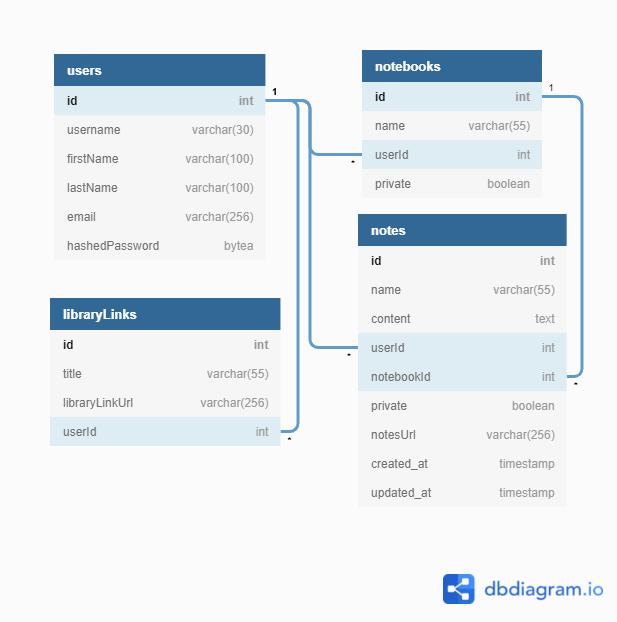
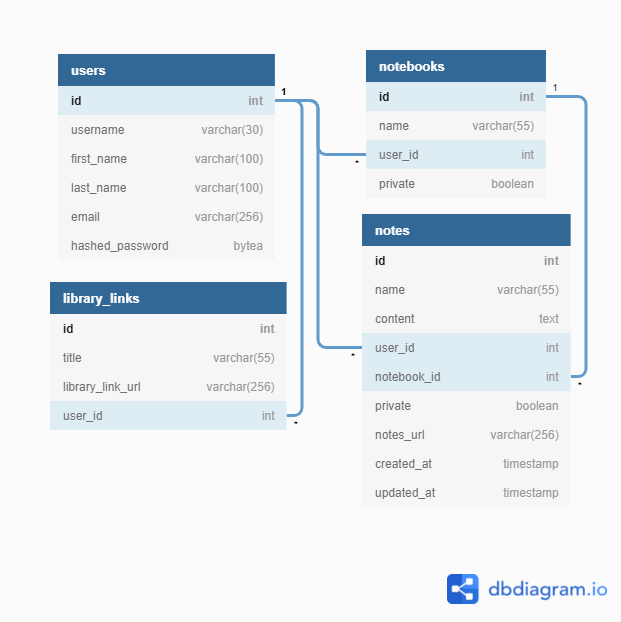
Finished the notebook and updated the user model. Working on the note model.

diff --git a/app/models/user.py b/app/models/user.py
@@ -2,32 +2,31 @@ from .db import db
 from werkzeug.security import generate_password_hash, check_password_hash
 from flask_login import UserMixin
 
+
 class User(db.Model, UserMixin):
-  __tablename__ = 'users'
+    __tablename__ = 'users'
 
-  id = db.Column(db.Integer, primary_key = True)
-  username = db.Column(db.String(40), nullable = False, unique = True)
-  email = db.Column(db.String(255), nullable = False, unique = True)
-  hashed_password = db.Column(db.String(255), nullable = False)
+    id = db.Column(db.Integer, primary_key=True)
+    username = db.Column(db.String(40), nullable=False, unique=True)
+    first_name = db.Column(db.String(100))
+    last_name = db.Column(db.String(100))
+    email = db.Column(db.String(255), nullable=False, unique=True)
+    hashed_password = db.Column(db.String(255), nullable=False)
 
+    @property
+    def password(self):
+        return self.hashed_password
 
-  @property
-  def password(self):
-    return self.hashed_password
+    @password.setter
+    def password(self, password):
+        self.hashed_password = generate_password_hash(password)
 
+    def check_password(self, password):
+        return check_password_hash(self.password, password)
 
-  @password.setter
-  def password(self, password):
-    self.hashed_password = generate_password_hash(password)
-
-
-  def check_password(self, password):
-    return check_password_hash(self.password, password)
-
-
-  def to_dict(self):
-    return {
-      "id": self.id,
-      "username": self.username,
-      "email": self.email
-    }
+    def to_dict(self):
+        return {
+          "id": self.id,
+          "username": self.username,
+          "email": self.email
+        }

diff --git a/app/models/note.py b/app/models/note.py
@@ -1,0 +1,16 @@
+import .db from db
+
+
+class Notes(db.Model):
+    __tablename__ = "notes"
+
+    id = db.Column(db.Integer, primary_key=True)
+    name = db.Column(db.String(55), nullable=False)
+    content = db.Column(db.Text, nullable=True)
+    user_id = db.Column(db.Integer, db.ForeignKey("users.id"), nullable=False)
+    notebook_id = db.Column(db.Integer, db.ForeignKey("notebooks.id"),
+                            nullable=True)
+    private = db.Column(db.Boolean, default=True)
+    notes_url = db.Column(db.String(255), nullable=True)
+    created_at = db.Column(db.TIMESTAMP, default=CURRENT_TIMESTAMP)
+    updated_at = db.Column(db.TIMESTAMP, default=CURRENT_TIMESTAMP)

diff --git a/app/config.py b/app/config.py
@@ -1,7 +1,8 @@
 import os
 
+
 class Config:
-  SECRET_KEY=os.environ.get('SECRET_KEY')
-  SQLALCHEMY_TRACK_MODIFICATIONS=False
-  SQLALCHEMY_DATABASE_URI=os.environ.get('DATABASE_URL')
-  SQLALCHEMY_ECHO=True
+    SECRET_KEY = os.environ.get('SECRET_KEY')
+    SQLALCHEMY_TRACK_MODIFICATIONS = False
+    SQLALCHEMY_DATABASE_URI = os.environ.get('DATABASE_URL')
+    SQLALCHEMY_ECHO = True

diff --git a/app/models/notebook.py b/app/models/notebook.py
@@ -1,0 +1,12 @@
+import .db from db
+
+
+class Notebook(db.Model):
+    __tablename__ = "notebooks"
+
+    id = db.Column(db.Integer, primary_key=True)
+    name = db.Column(db.String(55))
+    user_id = db.Column(db.Integer, db.ForeignKey("users.id"), nullable=False)
+    private = db.Column(db.Boolean, default=True)
+
+    user = db.relationship("User", back_populates="notebooks")

diff --git a/app/__init__.py b/app/__init__.py
@@ -39,9 +39,10 @@ CORS(app)
 
 # Since we are deploying with Docker and Flask,
 # we won't be using a buildpack when we deploy to Heroku.
-# Therefore, we need to make sure that in production any 
+# Therefore, we need to make sure that in production any
 # request made over http is redirected to https.
 # Well.........
+
 
 @app.before_request
 def https_redirect():
